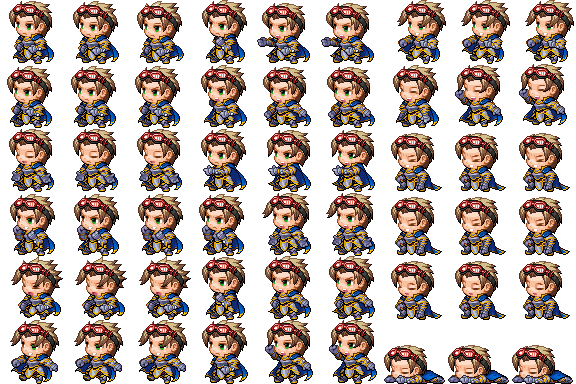
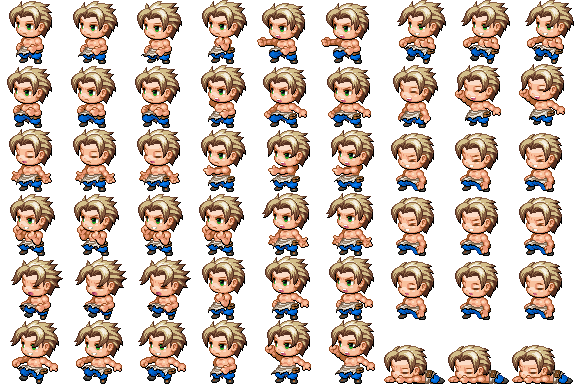
added all remaining Actor4_Night graphics
still need icons for Sleeping Garments

also fixed a bug where P3's message bust wouldn't update based on vanity

diff --git a/js/plugins.js b/js/plugins.js
@@ -148,7 +148,7 @@ var $plugins =
 {"name":"SRD_GameUpgrade","status":true,"description":"Enables more customization over the core mechanics of one's game while also providing additional functions for future plugins.","parameters":{"Game Window":"====================================","Game Reconstruction (1.5.X & below)":"false","Game Resolution":"{\"Width\":\"\",\"Height\":\"\"}","Screen Resolution":"{\"Width\":\"\",\"Height\":\"\"}","Minimum Resolution":"{\"Width\":\"\",\"Height\":\"\"}","Maximum Resolution":"{\"Width\":\"\",\"Height\":\"\"}","Window Title":"","Allow Resize":"","Initial Fullscreen":"","Show Frame":"","Always on Top":"","Core Defaults":"====================================","Audio Master Volume":"80","Video Master Volume":"100","Image Cache Limit":"25","Decrypter Ignore List":"[\"system/Window.png\"]","JsonEx Max Depth":"100","Retry Intervals":"[\"500\",\"1000\",\"3000\"]","HTML Settings":"====================================","Background Color":"#000000","Image Rendering":"","PIXI Settings":"====================================","Garbage Collection Mode":"On Scene Change","Round Pixels":"","Scale Mode":"Nearest","Wrap Mode":"Clamp"}},
 {"name":"SRD_SuperToolsEngine","status":true,"description":"The heart of all maker-style plugins; it adds a playtesting editor that can be opened with F12.","parameters":{"Connect Editor":"true","Auto Open Window":"false","Auto Move Window":"true","Menu Editor Exempt List":"[\"Window_BattleLog\",\"Window_MapName\"]"}},
 {"name":"SRD_PluginUpdater","status":false,"description":"Adds a tool to the Super Tools Engine that checks for updates on plugins from SumRndmDde's library.","parameters":{}},
-{"name":"SRD_PreloaderCore","status":true,"description":"Allows developers to preload specific audio and images before running the game through a new pre-title scene.","parameters":{"Custom Background":"Preload","Loading Text":"Loading %1","Complete Text":"Load complete! Let's begin...","Use Fade Transitions":"true","Load Font Size":"28","Gauge Back Color":"rgba(0, 0, 0, 0.4)","Gauge Main Color":"rgba(255, 0, 0, 0.4)","Custom Preloads":"[\"{\\\"Preload Path\\\":\\\"menus\\\",\\\"Preload Images\\\":\\\"custom: Particles, Snow\\\"}\",\"{\\\"Preload Path\\\":\\\"fishing\\\",\\\"Preload Images\\\":\\\"all\\\"}\"]","Audio Preloads":"====================================","Cache Audio":"bgm, bgs, me","Preload BGM":"important","Preload BGS":"none","Preload ME":"important","Preload SE":"none","Image Preloads":"====================================","Preload System":"custom: IconSet, Window_QuestLog, Window, Window_Christmas, NewIcon, Window_Fishing","Preload Animations":"all","Preload Battlebacks1":"none","Preload Battlebacks2":"none","Preload Characters":"none","Preload Enemies":"none","Preload Faces":"custom: Actor4, Adon, Champions, Boss1, Evil1, Elemental, Bandito, FlameBody, Developers","Preload Parallaxes":"none","Preload Pictures":"custom: NightOverlay, Autosave","Preload SV_Actors":"none","Preload SV_Enemies":"none","Preload Tilesets":"none","Preload Titles1":"none","Preload Titles2":"none"}},
+{"name":"SRD_PreloaderCore","status":true,"description":"Allows developers to preload specific audio and images before running the game through a new pre-title scene.","parameters":{"Custom Background":"Preload","Loading Text":"Loading %1","Complete Text":"Load complete! Let's begin...","Use Fade Transitions":"true","Load Font Size":"28","Gauge Back Color":"rgba(0, 0, 0, 0.4)","Gauge Main Color":"rgba(255, 0, 0, 0.4)","Custom Preloads":"[\"{\\\"Preload Path\\\":\\\"menus\\\",\\\"Preload Images\\\":\\\"custom: Particles, Snow\\\"}\",\"{\\\"Preload Path\\\":\\\"fishing\\\",\\\"Preload Images\\\":\\\"all\\\"}\"]","Audio Preloads":"====================================","Cache Audio":"bgm, bgs, me","Preload BGM":"important","Preload BGS":"none","Preload ME":"important","Preload SE":"none","Image Preloads":"====================================","Preload System":"custom: IconSet, Window_QuestLog, Window, Window_Christmas, NewIcon, Window_Fishing","Preload Animations":"all","Preload Battlebacks1":"none","Preload Battlebacks2":"none","Preload Characters":"none","Preload Enemies":"none","Preload Faces":"custom: Actor4, Adon, Champions, Boss1, Evil1, Elemental, Bandito, FlameBody, Developers, Actor4_Night","Preload Parallaxes":"none","Preload Pictures":"custom: NightOverlay, Autosave","Preload SV_Actors":"none","Preload SV_Enemies":"none","Preload Tilesets":"none","Preload Titles1":"none","Preload Titles2":"none"}},
 {"name":"SRD_GoldWindowCustomizer","status":true,"description":"A Plugin that allows you to manipulate the information presented on the Gold Window.","parameters":{"Rows":"3","Columns":"1","X":"this._goldWindow.x","Y":"576","Width":"240 * this.infoCols()","Height":"this.fittingHeight(this.infoRows())","Font Size":"28","== Labels ==":"","Battle Label":"Battles","Map Label":"","D-Map Label":"","BGM Label":"(BGM)","No BGM Label":"None","Time Label":"(Playtime)","ON Label":"ON","OFF Label":"OFF","== Information ==":"","Information 1":"gold","Information 2":"Map-display","Information 3":"Variable: 36","Information 4":"","Information 5":"","Information 6":"","Information 7":"","Information 8":"","Information 9":"","Information 10":"","Information 11":"","Information 12":"","Information 13":"","Information 14":"","Information 15":"","Information 16":"","Information 17":"","Information 18":"","Information 19":"","Information 20":"","Information 21":"","Information 22":"","Information 23":"","Information 24":"","Information 25":"","Information 26":"","Information 27":"","Information 28":"","Information 29":"","Information 30":"","Information 31":"","Information 32":"","Information 33":"","Information 34":"","Information 35":"","Information 36":"","Information 37":"","Information 38":"","Information 39":"","Information 40":"","Information 41":"","Information 42":"","Information 43":"","Information 44":"","Information 45":"","Information 46":"","Information 47":"","Information 48":"","Information 49":"","Information 50":""}},
 {"name":"SRD_GameOverCore","status":true,"description":"Gives more options for one's Game Over scene. Common Events can be called and a Retry function has been added.","parameters":{"Default Image":"","== Command Window ==":"","Use Command Window":"true","Command Window Phase":"end","Allow Retry Command":"true","Command Window X":"(Graphics.boxWidth - this._commandWindow.width) / 2","Command Window Y":"(Graphics.boxHeight - this._commandWindow.height) / 2","== Command Texts ==":"","Retry Command Text":"Try Again","Load Command Text":"Load Game","Title Command Text":"To Title","== Command Events ==":"","Start Common Event":"38","Middle Common Event":"0","End Common Event":"10"}},
 {"name":"SRD_RetryUpgrade","status":true,"description":"Takes players to a new scene after retrying a battle. Allows users to manage skills, equips, options, etc.","parameters":{"Retry BGM":"scene_battleretry, 100, 100, 0","Retry Background":"Mountains2","Background Scroll":"2, 0","== Start Command ==":"","Start Battle Text":"Start Battle!","Start Battle Position":"bottom","Play Battle Start":"true","Pre-Play Battle BGM":"false","== Command 1 ==":"","Command 1 Text":"Equipment","Command 1 Set Actor":"true","Command 1 Eval":"SceneManager.push(Scene_Equip)","Command 1 Condition":"!$gameTemp._bossRush","== Command 2 ==":"","Command 2 Text":"Items","Command 2 Set Actor":"false","Command 2 Eval":"SceneManager.push(Scene_Item)","Command 2 Condition":"!$gameTemp._bossRush","== Command 3 ==":"","Command 3 Text":"Skills","Command 3 Set Actor":"true","Command 3 Eval":"SceneManager.push(Scene_Skill)","Command 3 Condition":"!$gameTemp._bossRush","== Command 4 ==":"","Command 4 Text":"Options","Command 4 Set Actor":"false","Command 4 Eval":"SceneManager.push(Scene_Options)","Command 4 Condition":"true","== Command 5 ==":"","Command 5 Text":"","Command 5 Set Actor":"","Command 5 Eval":"","Command 5 Condition":"","== Command 6 ==":"","Command 6 Text":"","Command 6 Set Actor":"","Command 6 Eval":"","Command 6 Condition":"true","== Command 7 ==":"","Command 7 Text":"","Command 7 Set Actor":"","Command 7 Eval":"","Command 7 Condition":"true","== Command 8 ==":"","Command 8 Text":"","Command 8 Set Actor":"","Command 8 Eval":"","Command 8 Condition":"true","== Command 9 ==":"","Command 9 Text":"","Command 9 Set Actor":"","Command 9 Eval":"","Command 9 Condition":"true","== Command 10 ==":"","Command 10 Text":"","Command 10 Set Actor":"","Command 10 Eval":"","Command 10 Condition":"true","== Command 11 ==":"","Command 11 Text":"","Command 11 Set Actor":"","Command 11 Eval":"","Command 11 Condition":"true","== Command 12 ==":"","Command 12 Text":"","Command 12 Set Actor":"","Command 12 Eval":"","Command 12 Condition":"true","== Command 13 ==":"","Command 13 Text":"","Command 13 Set Actor":"","Command 13 Eval":"","Command 13 Condition":"true","== Command 14 ==":"","Command 14 Text":"","Command 14 Set Actor":"","Command 14 Eval":"","Command 14 Condition":"true","== Command 15 ==":"","Command 15 Text":"","Command 15 Set Actor":"","Command 15 Eval":"","Command 15 Condition":"true","== Command 16 ==":"","Command 16 Text":"","Command 16 Set Actor":"","Command 16 Eval":"","Command 16 Condition":"true","== Command 17 ==":"","Command 17 Text":"","Command 17 Set Actor":"","Command 17 Eval":"","Command 17 Condition":"true","== Command 18 ==":"","Command 18 Text":"","Command 18 Set Actor":"","Command 18 Eval":"","Command 18 Condition":"true","== Command 19 ==":"","Command 19 Text":"","Command 19 Set Actor":"","Command 19 Eval":"","Command 19 Condition":"true","== Command 20 ==":"","Command 20 Text":"","Command 20 Set Actor":"","Command 20 Eval":"","Command 20 Condition":"true"}},

diff --git a/js/plugins/GALV_MessageBusts.js b/js/plugins/GALV_MessageBusts.js
@@ -356,16 +356,23 @@ Sprite_GalvBust.prototype.loadBitmap = function() {
 			id = $gameActors.actor(2).equips()[10].baseItemId;
 			if ($gameActors.actor(2).equips()[8]) if ($gameActors.actor(2).equips()[8].baseItemId == 199) {
 				name += "_F";
-			} else if (id === 121) name += "_C";
+			} else if (id === 121) {
+				name += "_C";
+			} else if (id === 228) name += "_Night";
 		}
-		if (index % 4 === 1 && $gameActors.actor(3).equips()[10]) { // Player 3
+		if (index % 4 === 3 && $gameActors.actor(3).equips()[10]) { // Player 3
 			id = $gameActors.actor(3).equips()[10].baseItemId;
-			if (id === 122) name += "_C";
+			if (id === 122) {
+				name += "_C";
+			} else if (id === 229) name += "_Night";
 		}
 		if (index % 4 === 0 && $gameActors.actor(4).equips()[10]) { // Player 4
 			id = $gameActors.actor(4).equips()[10].baseItemId;
-			if (id === 123) name += "_C";
-			else if (id === 138) name += "_B";
+			if (id === 123) {
+				name += "_C";
+			} else if (id === 138) {
+				name += "_B";
+			} else if (id === 230) name += "_Night";
 		}
 	}
 

diff --git a/CHANGELOG.md b/CHANGELOG.md
@@ -166,6 +166,7 @@ The changelog below may be lengthy, but if you take the time to read it, I think
 - Fixed boulders still animating even if they failed to move.
 - Fixed buggy snowball in Frozen Labyrinth.
 - Fixed the Comet Charm creating a duplicate damage popup.
+- Fixed Player 3's message bust updating based on vanity.
 - Fixed uncrafted item descriptions reverting to the default white color after a color code or element was referenced.
 - Fixed being able to change the party member comparison while choosing an ingredient.
 - Fixed being unable to walk to the small chest in the Greenfield-Solus Passage while the soldiers were clearing the dirt.
